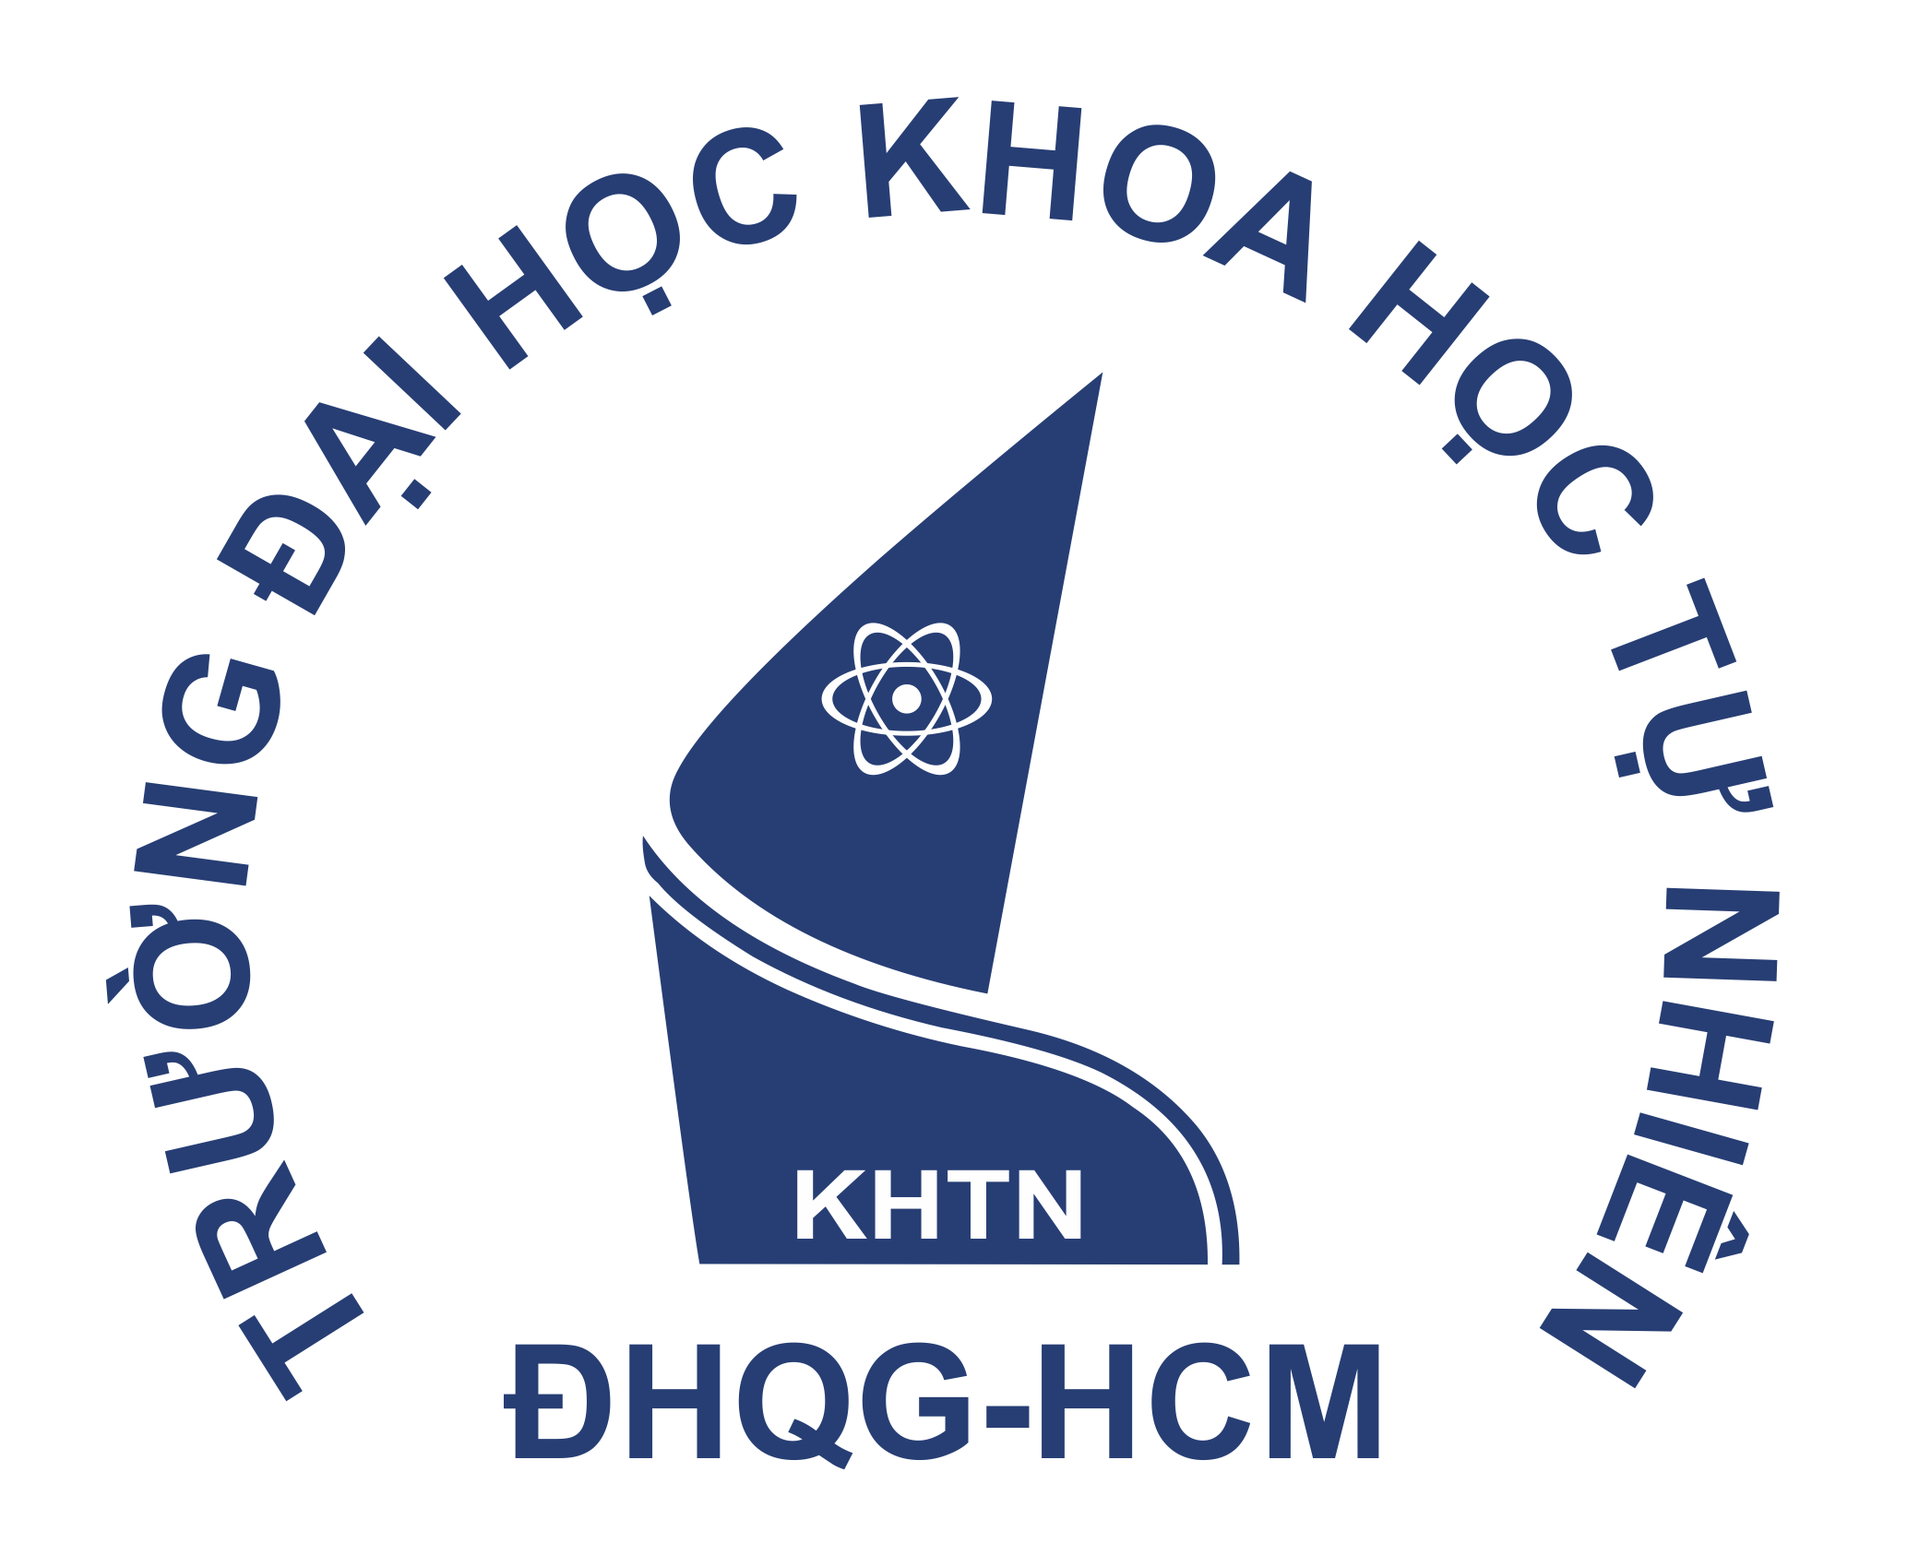
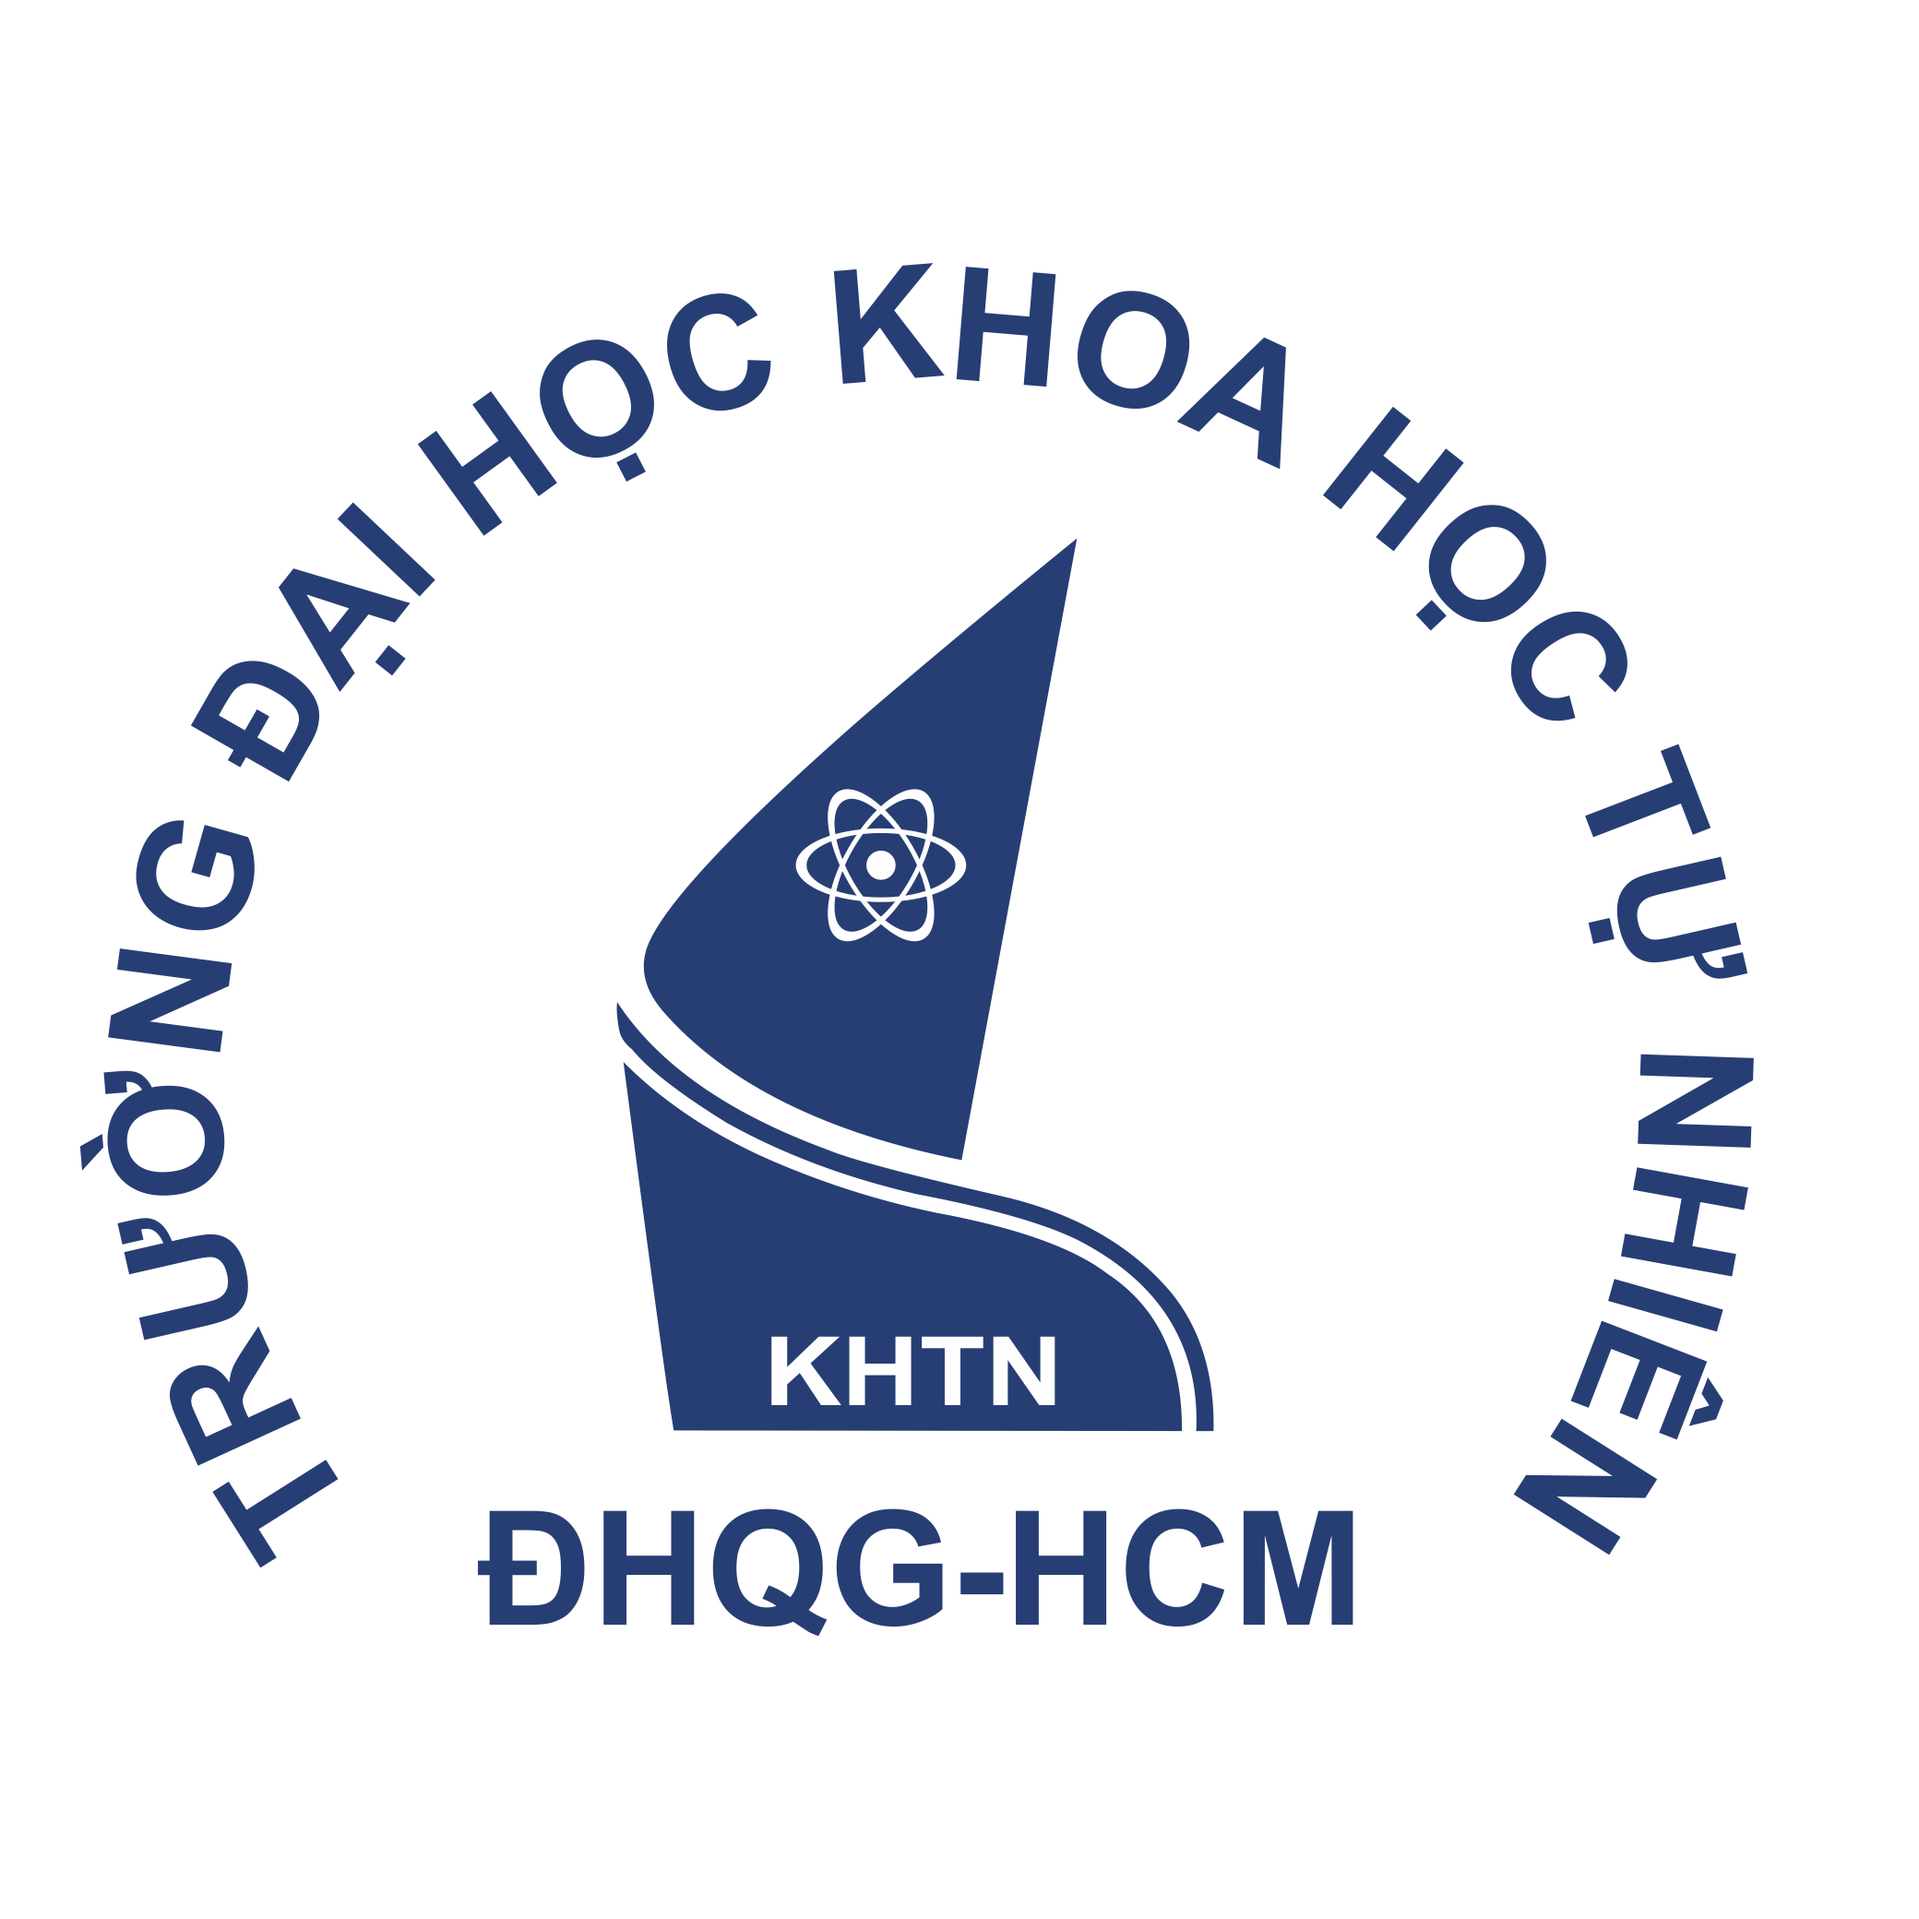
Some changes
Logo

Changed region(s): [[0.25, 0.2496, 0.7188, 0.9358], [0.0312, 0.0624, 0.875, 0.9046], [0.7812, 0.3743, 0.9375, 0.9046]]

diff --git a/index.html b/index.html
@@ -22,7 +22,7 @@
     <!-- TITLE OF CHAT BOT  -->
     <title>CHAT BOT</title>
     <script src="ChatGPT.js?v=14"></script>
-    <link rel="shortcut icon" type="image/x-icon" href="images\Logo_HCMUS.png">
+    <link rel="shortcut icon" type="image/x-icon" href="images\Seal.png">
 
     <!-- Load universal stylesheet for site -->
     <link href="https://cdn.jsdelivr.net/npm/bootstrap@5.3.0-alpha1/dist/css/bootstrap.min.css" rel="stylesheet" integrity="sha384-GLhlTQ8iRABdZLl6O3oVMWSktQOp6b7In1Zl3/Jr59b6EGGoI1aFkw7cmDA6j6gD" crossorigin="anonymous">
@@ -57,7 +57,7 @@
             </p>
 
             <div align="center">
-                <img src="images\HCMUS.png" alt=" HCMUS logo" width="120" height="120">
+                <img src="images\Seal.png" alt="User Avatar" width="120" height="120">
             </div>
             <div id="list-group" class="list-group w-auto">
                 <a href="#" class="list-group-item list-group-item-action d-flex gap-3 py-3">
